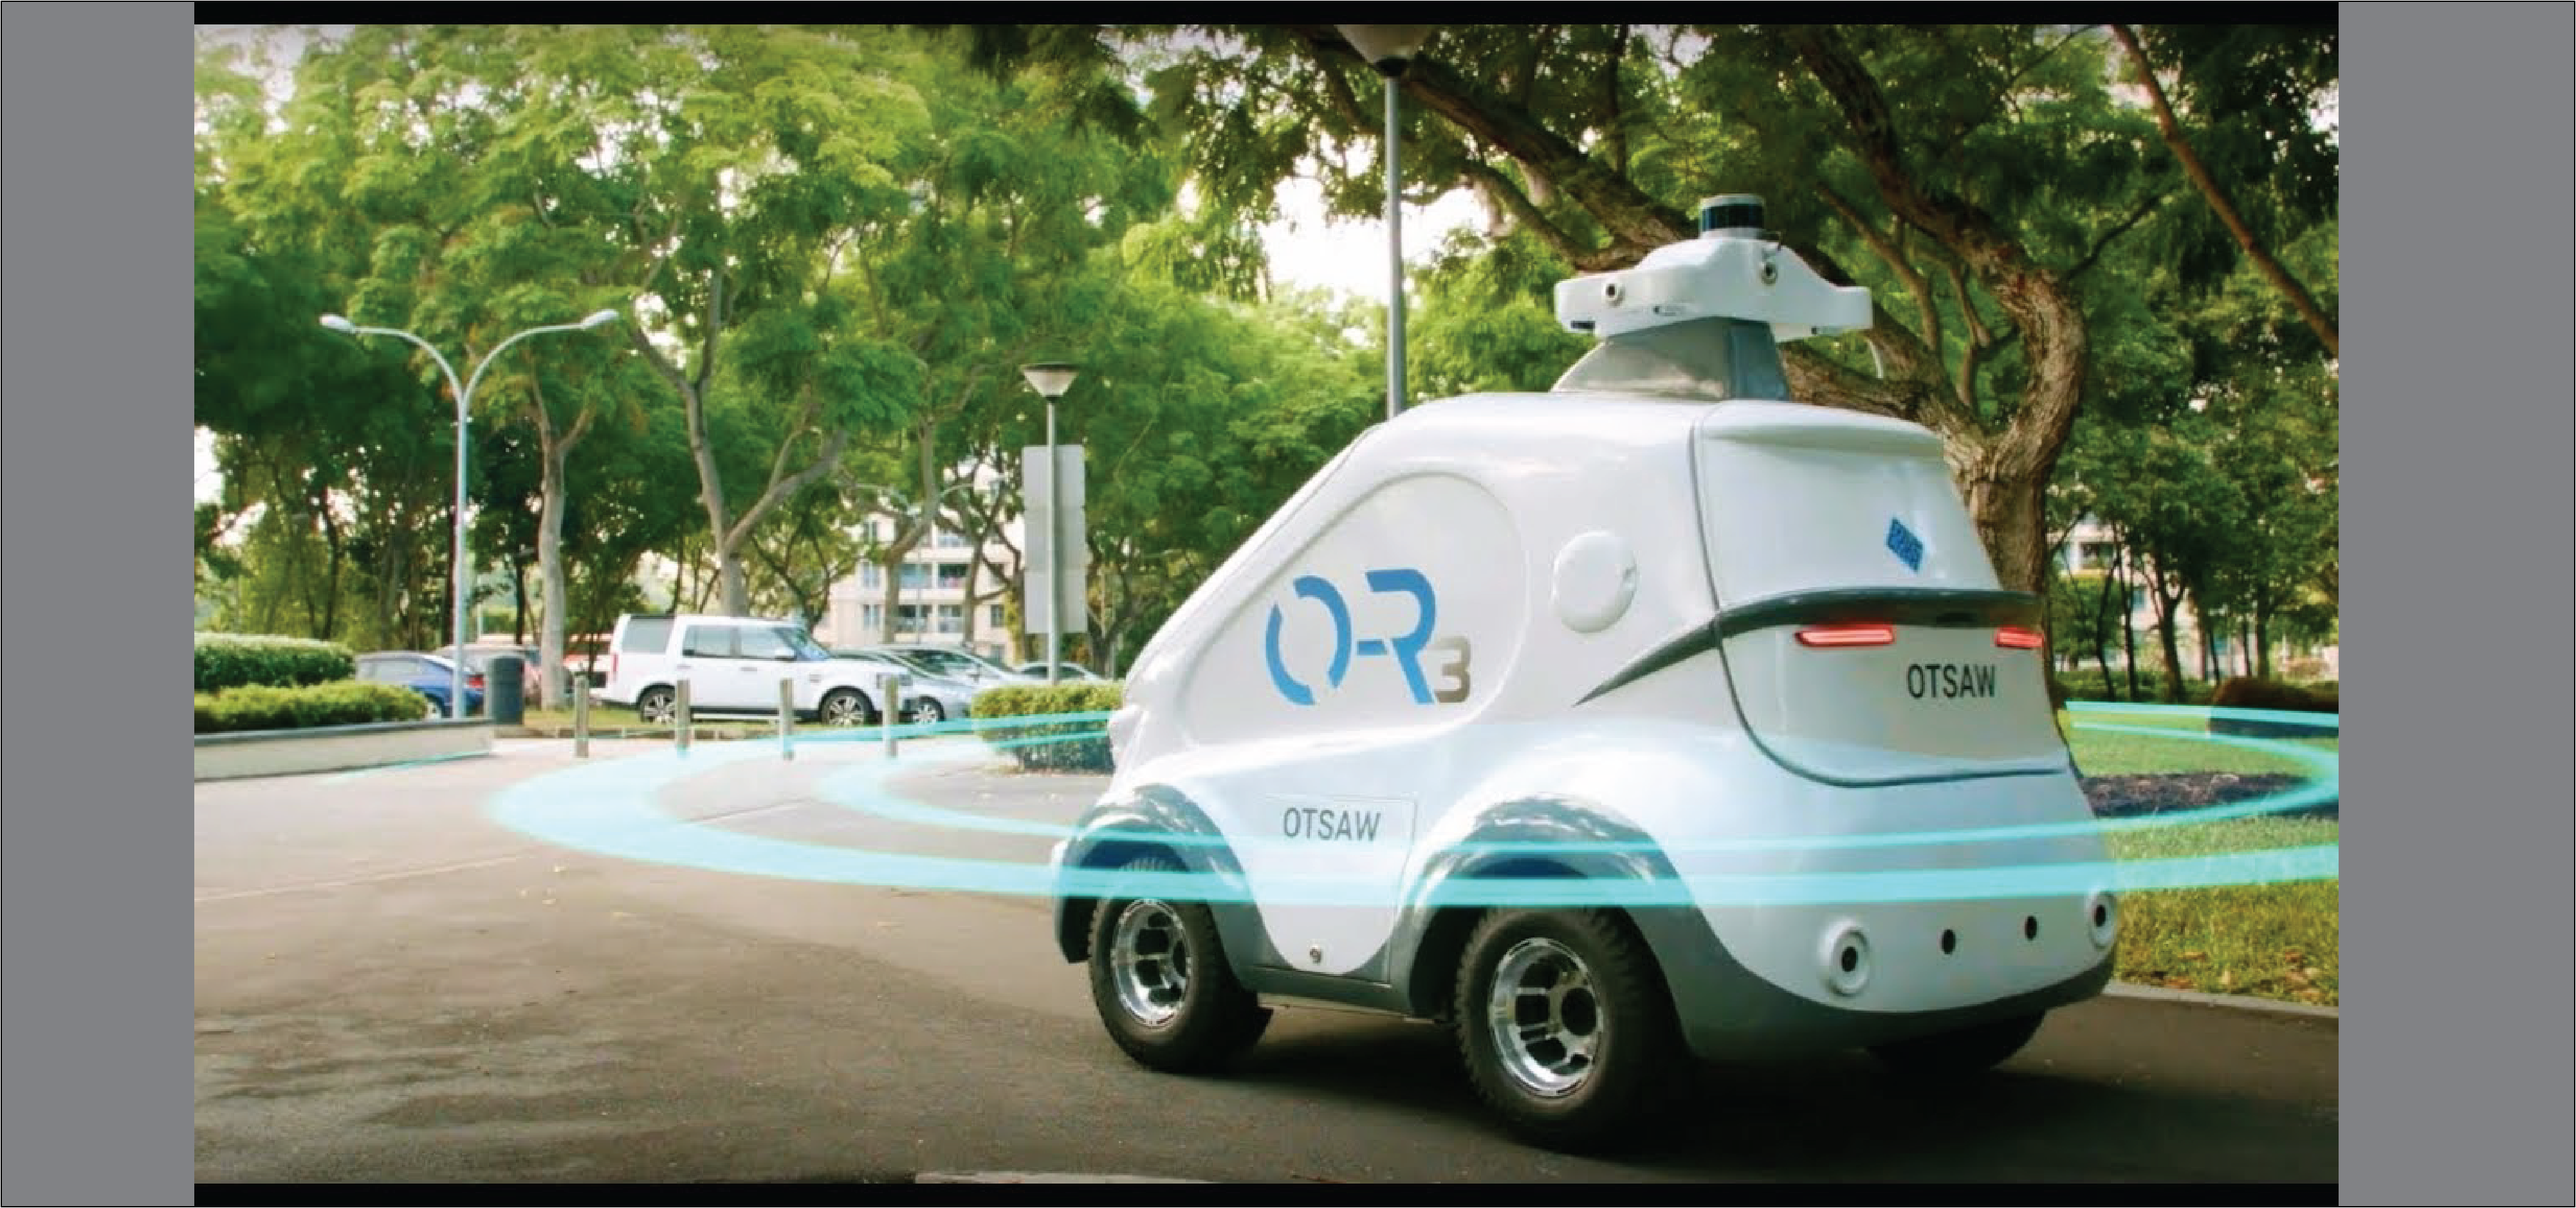
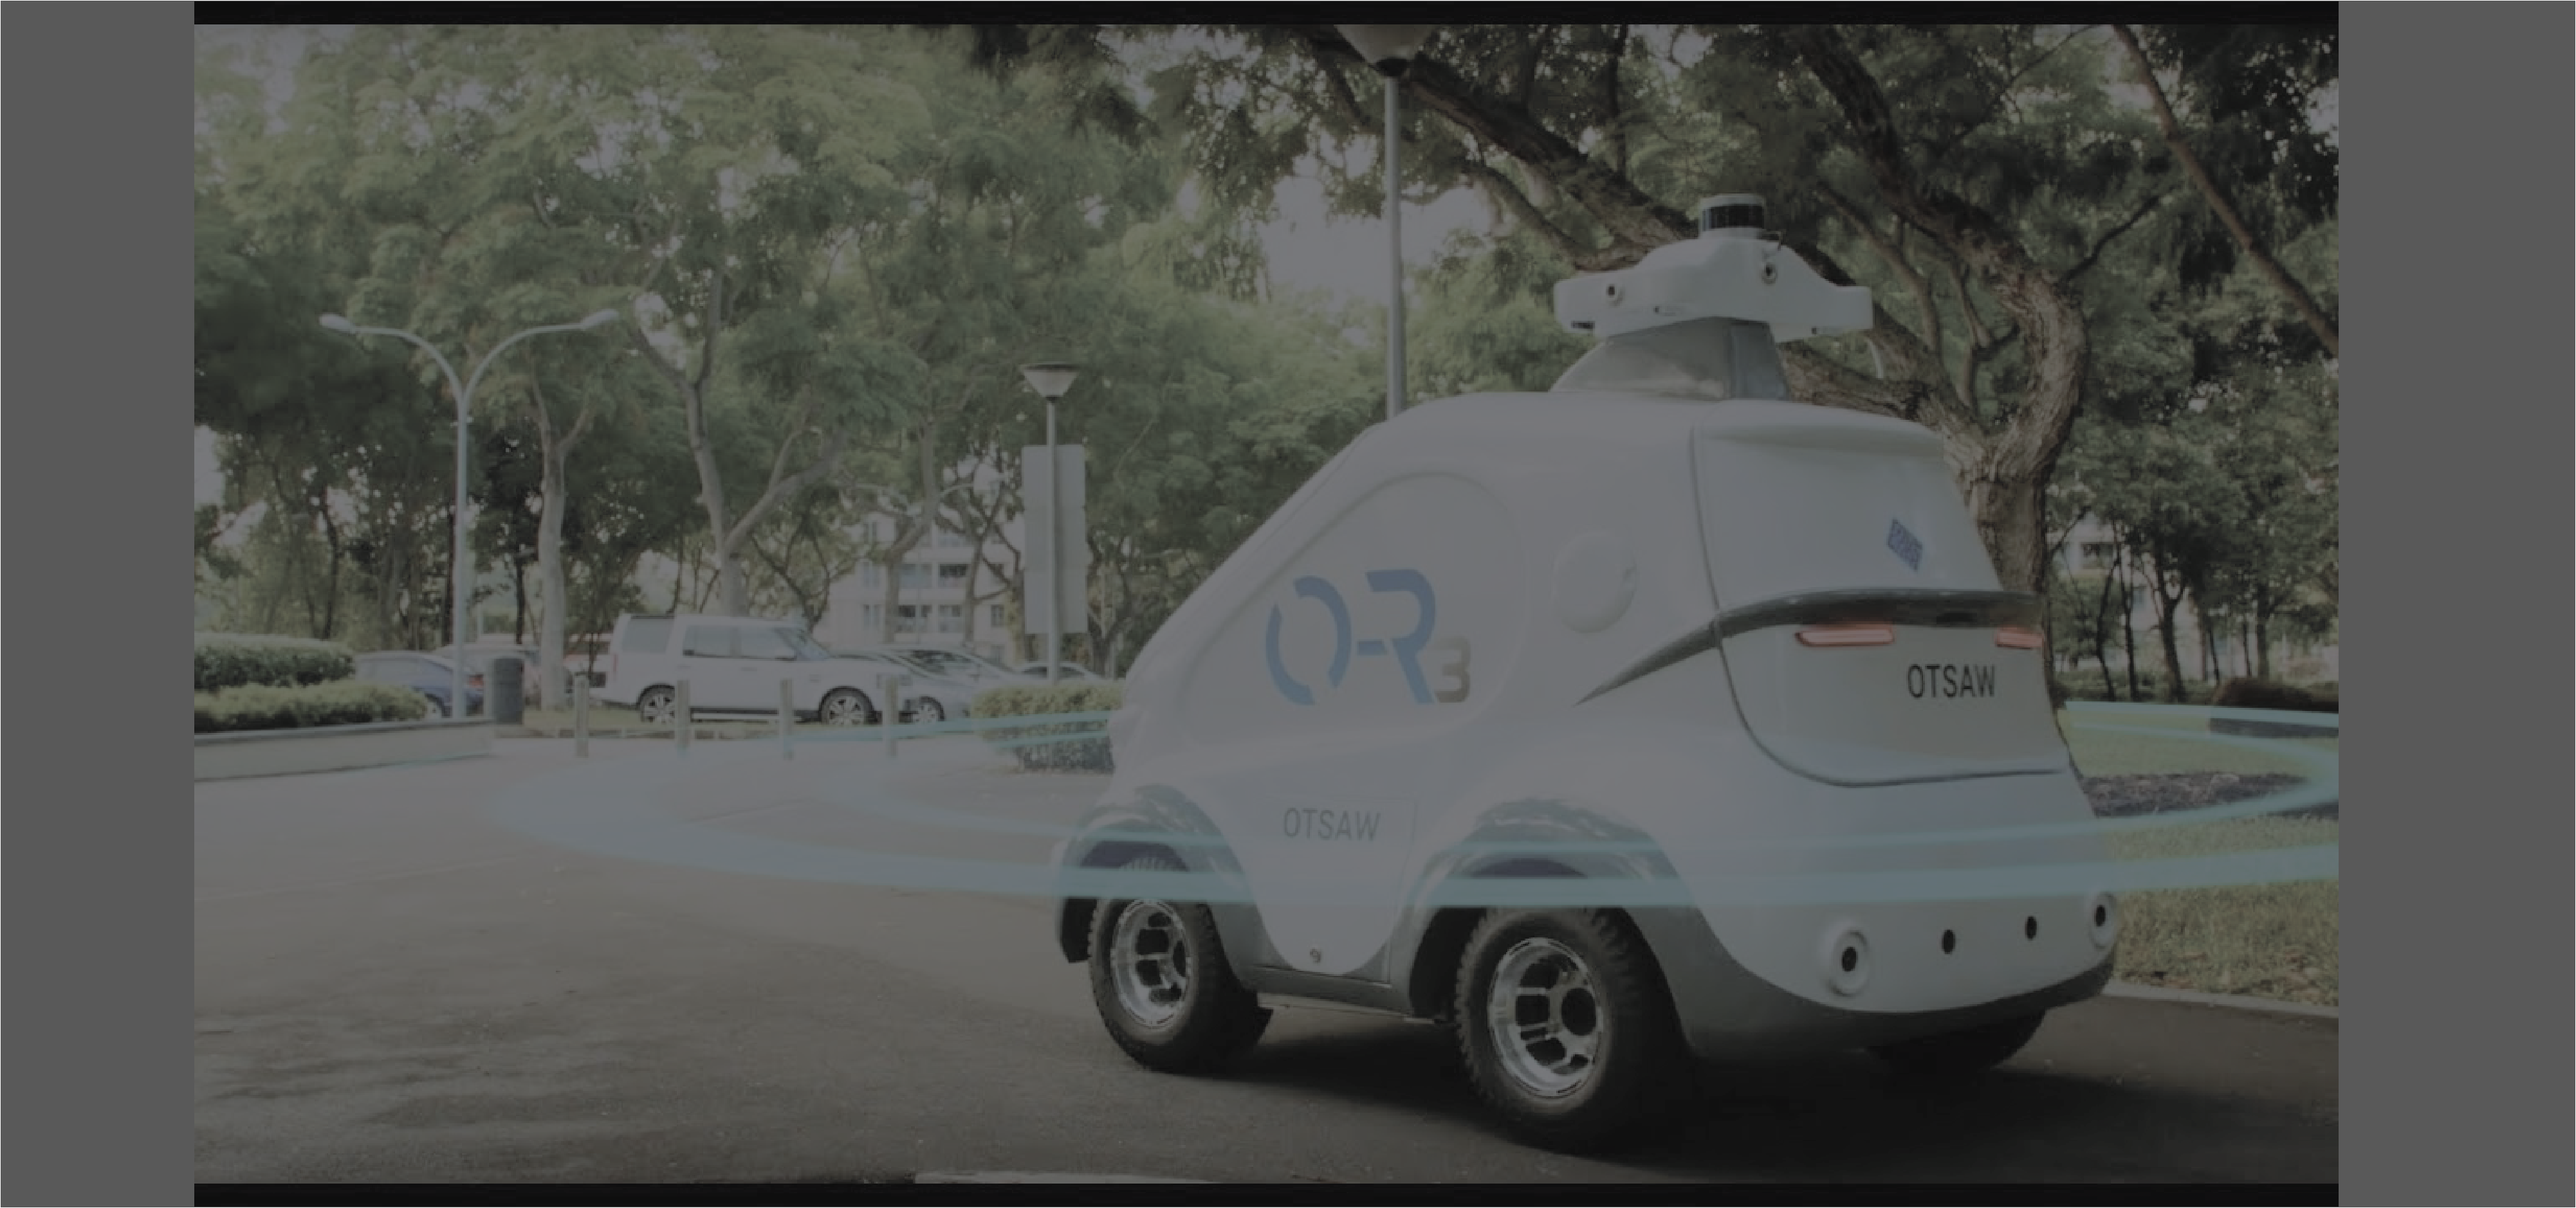
up

diff --git a/index.html b/index.html
@@ -101,15 +101,15 @@
     <!-- slider_area_start -->
     <div class="slider_area">
         <div class="slider_active owl-carousel">
-            <div class="single_slider  d-flex align-items-center slider_bg_1 overlay">
+            <div class="single_slider  d-flex align-items-center slider_bg_1 bg-black">
                 <div class="container">
                     <div class="row align-items-center justify-content-center">
                         <div class="col-xl-12">
                             <div class="slider_text text-center">
                                 <span>Secure and Deliver is our heart</span>
-                                <h3>Secure and Deliver is our heart</h3>
+                                <h3></h3>
                                 <p>Secure and Deliver is our heart</p>
-                                <a href="#" class="boxed-btn3">Join Us</a>
+                                <!-- <a href="#" class="boxed-btn3">Join Us</a> -->
                             </div>
                         </div>
                     </div>
@@ -121,9 +121,9 @@
                         <div class="col-xl-12">
                             <div class="slider_text text-center">
                                 <span>Secure and Deliver is our heart</span>
-                                <h3>Secure and Deliver is our heart</h3>
+                                <h3></h3>
                                 <p>Secure and Deliver is our heart</p>
-                                <a href="#" class="boxed-btn3">Join Us</a>
+                                <!-- <a href="#" class="boxed-btn3">Join Us</a> -->
                             </div>
                         </div>
                     </div>
@@ -135,9 +135,9 @@
                         <div class="col-xl-12">
                             <div class="slider_text text-center">
                                 <span>Secure and Deliver is our heart</span>
-                                <h3>Secure and Deliver is our heart</h3>
+                                <h3></h3>
                                 <p>Secure and Deliver is our heart</p>
-                                <a href="#" class="boxed-btn3">Join Us</a>
+                                <!-- <a href="#" class="boxed-btn3">Join Us</a> -->
                             </div>
                         </div>
                     </div>
@@ -149,9 +149,9 @@
                         <div class="col-xl-12">
                             <div class="slider_text text-center">
                                 <span>Secure and Deliver is our heart</span>
-                                <h3>Secure and Deliver is our heart</h3>
+                                <h3></h3>
                                 <p>Secure and Deliver is our heart</p>
-                                <a href="#" class="boxed-btn3">Join Us</a>
+                                <!-- <a href="#" class="boxed-btn3">Join Us</a> -->
                             </div>
                         </div>
                     </div>
@@ -210,7 +210,7 @@
                 <div class="col-lg-3 col-md-6">
                     <div class="single_feature text-center">
                         <div class="icon">
-                            <img src="img/svg_icon/2.svg" alt="">
+                            <img  height="100px" src="img/svg_icon/2.svg" alt="">
                             
                         </div>
                         <h4>Open Cv</h4>
@@ -220,7 +220,7 @@
                 <div class="col-lg-3 col-md-6">
                     <div class="single_feature text-center">
                         <div class="icon">
-                            <img src="img/svg_icon/3.svg" alt="">
+                            <img  height="100px" src="img/svg_icon/3.svg" alt="">
                         </div>
                         <h4>Image processing</h4>
                         <p>ประมวลผลภาพ</p>
@@ -229,7 +229,7 @@
                 <div class="col-lg-3 col-md-6">
                     <div class="single_feature text-center">
                         <div class="icon">
-                            <img src="img/svg_icon/4.svg" alt="">
+                            <img  height="100px" src="img/svg_icon/4.svg" alt="">
                         </div>
                         <h4>Raspberry pi / Nvidia jetson nano</h4>
                         <p>ใช้ในการประมวลผล ในการควบคุมส่วนต่างๆ</p>
